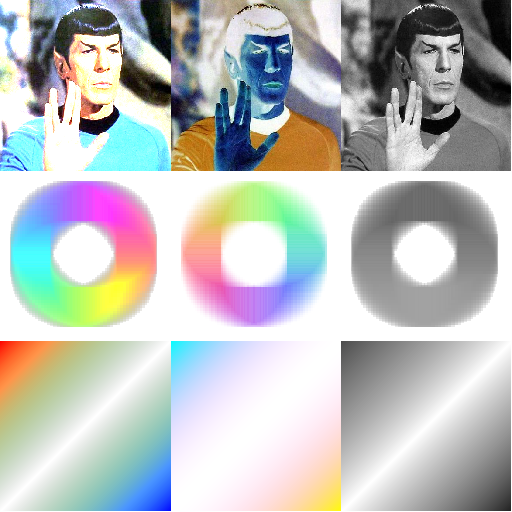
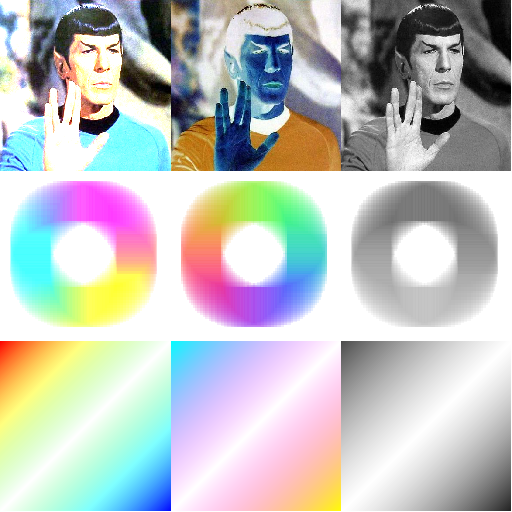
Add okay impl of sweep gradient

diff --git a/SSFinal+SSSweepGradientShader.cpp b/SSFinal+SSSweepGradientShader.cpp
@@ -1,0 +1,96 @@
+#include "SSFinal.h"
+#include "SSBlendModeHelpers.h"
+#include "include/GShader.h"
+
+class SSSweepGradientShader : public GShader {
+private:
+        GPoint center;
+        float startRadians;
+        std::vector<GColor> colors;
+        int colorCount;
+        bool constIsOpaque;
+        GMatrix inverseCTM;
+
+public:
+    SSSweepGradientShader(
+        GPoint center,
+        float startRadians,
+        const GColor colors[],
+        int colorCount
+    ) 
+        : center(center)
+        , startRadians(startRadians)
+        , colorCount(colorCount)
+    {
+        // Copy colors into vectors, calculate isOpaque
+        bool isOpaque = true;
+
+        for (int i = 0; i < colorCount; i++) {
+            this->colors.push_back(colors[i]);
+
+            if (colors[i].a != 1) isOpaque = false;
+        }
+
+        this->constIsOpaque = isOpaque;
+    }
+
+    /// Return true iff all of the GPixels that may be returned by this shader will be opaque.
+    bool isOpaque() override {
+        return constIsOpaque;
+    }
+
+    /// The draw calls in GCanvas must call this with the CTM before any calls to shadeSpan().
+    bool setContext(const GMatrix& ctm) override {
+        auto inverseCTM = ctm.invert();
+
+        if (inverseCTM) {
+            this->inverseCTM = inverseCTM.value();
+            return true;
+        } else {
+            return false;
+        }
+    }
+
+    /// Given a row of pixels in device space [x, y] ... [x + count - 1, y], return the
+    /// corresponding src pixels in row[0...count - 1]. The caller must ensure that row[]
+    /// can hold at least [count] entries.
+    void shadeRow(int x, int y, int rowCount, GPixel row[]) override {
+        for (int i = 0; i < rowCount; i++) {
+            GPoint ctmPoint = { x + i + 0.5f, y + 0.5f };
+            GPoint originalDevicePoint = inverseCTM * ctmPoint;
+
+            // Find angle between point and center
+            float angleRadians = atan2(originalDevicePoint.y - center.y, originalDevicePoint.x - center.x);
+            angleRadians -= startRadians;
+            if (angleRadians < 0) angleRadians += 2 * gFloatPI;
+
+            // Scale angle to unit space
+            float unitAngle = angleRadians / (2 * gFloatPI);
+            unitAngle = GPinToUnit(unitAngle);
+
+            // Scale angle to (0...colorCount)
+            float scaledAngle = unitAngle * colorCount;
+
+            // Find previous and next color indices
+            int previousIndex = GFloorToInt(scaledAngle);
+            int nextIndex = GCeilToInt(scaledAngle);
+            if (nextIndex >= colorCount) nextIndex = 0;
+
+            // Lerp colors
+            float distanceFromPrevious = scaledAngle - previousIndex;
+            GColor color = (1 - distanceFromPrevious) * colors[previousIndex] + distanceFromPrevious * colors[nextIndex];
+            row[i] = colorToPixel(color);
+        }
+    }
+};
+
+///  Return a sweep-gradient shader, centered at 'center', starting wiht color[0] at  startRadians
+///  and ending with colors[count-1] at startRadians+2pi. The colors are distributed evenly around the sweep.
+std::shared_ptr<GShader> SSFinal::createSweepGradient(
+    GPoint center,
+    float startRadians,
+    const GColor colors[],
+    int count
+) {
+    return std::unique_ptr<SSSweepGradientShader>(new SSSweepGradientShader(center, startRadians, colors, count));
+}

diff --git a/SSFinal.h b/SSFinal.h
@@ -45,6 +45,15 @@ class SSFinal : public GFinal {
         const GColor colors[],
         int count
     );
+
+    ///  Return a sweep-gradient shader, centered at 'center', starting wiht color[0] at  startRadians
+    ///  and ending with colors[count-1] at startRadians+2pi. The colors are distributed evenly around the sweep.
+    virtual std::shared_ptr<GShader> createSweepGradient(
+        GPoint center,
+        float startRadians,
+        const GColor colors[],
+        int count
+    );
 };
 
 #endif
